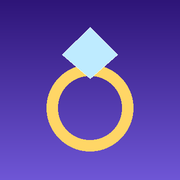
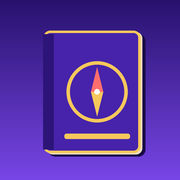
Add files via upload

diff --git a/index.html b/index.html
@@ -7,8 +7,8 @@
 <meta name="apple-mobile-web-app-status-bar-style" content="black-translucent">
 <meta name="theme-color" content="#2e1578">
 <link rel="manifest" href="manifest.webmanifest">
-<link rel="apple-touch-icon" href="icon-180.png">
-<link rel="icon" href="icon-192.png">
+<link rel="apple-touch-icon" href="icon-180.png?v=2">
+<link rel="icon" href="icon-192.png?v=2">
 <title>Pusula Mobile</title>
 <style>
 :root{box-sizing:border-box;padding-top:env(safe-area-inset-top,0px);
@@ -64,7 +64,7 @@ input[type=date]{min-width:0;max-width:100%;-webkit-appearance:none;appearance:n
 </style></head><body>
 
 <div id="start">
- <h1>Pusula Mobile</h1>
[1 lines of base64/hex data omitted]
  <div class="row" id="langS"><button data-a="lang" data-v="de">🇩🇪 Deutsch</button><button class="sec" data-a="lang" data-v="en">🇬🇧 English</button><button class="sec" data-a="lang" data-v="tr">🇹🇷 Türkçe</button></div>
  <div class="card">
   <p class="mu">Die App speichert nichts selbst. Gib dein Passwort ein und lade deine Datei, oder starte neu.</p>
@@ -135,8 +135,9 @@ input[type=date]{min-width:0;max-width:100%;-webkit-appearance:none;appearance:n
 
 <script>
 if(!window.claude)window.claude={use:async()=>null};
-const VER="0.60";
+const VER="0.61";
 const HIST=[
+ ["0.61","13.11.2026",["Neues Logo: Kontobuch mit Kompass (App-Symbol und Anmeldeseite)"]],
  ["0.60","12.11.2026",["Zwischenspeichern: Datei speichern, ohne die App zu leeren (in den Einstellungen und unter „Mehr“), mit Zeitpunkt der letzten Sicherung"]],
  ["0.59","12.11.2026",["Werkstatt: Zwischenschritte (z. B. „Etikett muss gedruckt werden“, „Wird gerade gemacht“) frei wählbar und erweiterbar, mit Notiz; Verlauf mit Datum und Uhrzeit für jede Änderung; Optionen in den Einstellungen verwalten"]],
  ["0.58","12.11.2026",["Werkstatt: neuer Status „📦 Abholbereit“ mit eigenem Knopf (dann „✓ Abgeholt“ oder „Wieder in Arbeit“); eigener Filter; abholbereite Pakete oben in „Fristen“ der Übersicht; Anzeige im Lager und in der Fertigung"]],
@@ -655,6 +656,7 @@ Erste Version: Einnahmen und Ausgaben, Kategorien, Monatsübersicht ~ First vers
 Speichern und Laden als Datei pro Benutzer ~ Save and load as one file per user ~ Kullanıcı başına bir dosya olarak kaydet ve yükle`;
 const DYT=`Zuletzt eingegeben: ~ Last entered: ~ Son giriş:
 Letzte Buchung: ~ Last posting: ~ Son kayıt:
+Neues Logo: Kontobuch mit Kompass (App-Symbol und Anmeldeseite) ~ New logo: ledger with compass (app icon and login page) ~ Yeni logo: pusulalı hesap defteri (uygulama simgesi ve giriş sayfası)
 💾 Zwischenspeichern ~ 💾 Save in between ~ 💾 Ara kaydet
 💾 Jetzt zwischenspeichern ~ 💾 Save now ~ 💾 Şimdi ara kaydet
 💾 Zwischenspeichern (App bleibt offen) ~ 💾 Save (app stays open) ~ 💾 Ara kaydet (uygulama açık kalır)

diff --git a/sw.js b/sw.js
@@ -1,4 +1,4 @@
-const C="kasse-0.60";
+const C="kasse-0.61";
 const FILES=["./","./index.html","./manifest.webmanifest","./icon-180.png","./icon-192.png","./icon-512.png"];
 self.addEventListener("install",e=>{e.waitUntil(caches.open(C).then(c=>c.addAll(FILES)).then(()=>self.skipWaiting()))});
 self.addEventListener("activate",e=>{e.waitUntil(caches.keys().then(k=>Promise.all(k.filter(x=>x!==C).map(x=>caches.delete(x)))).then(()=>self.clients.claim()))});
